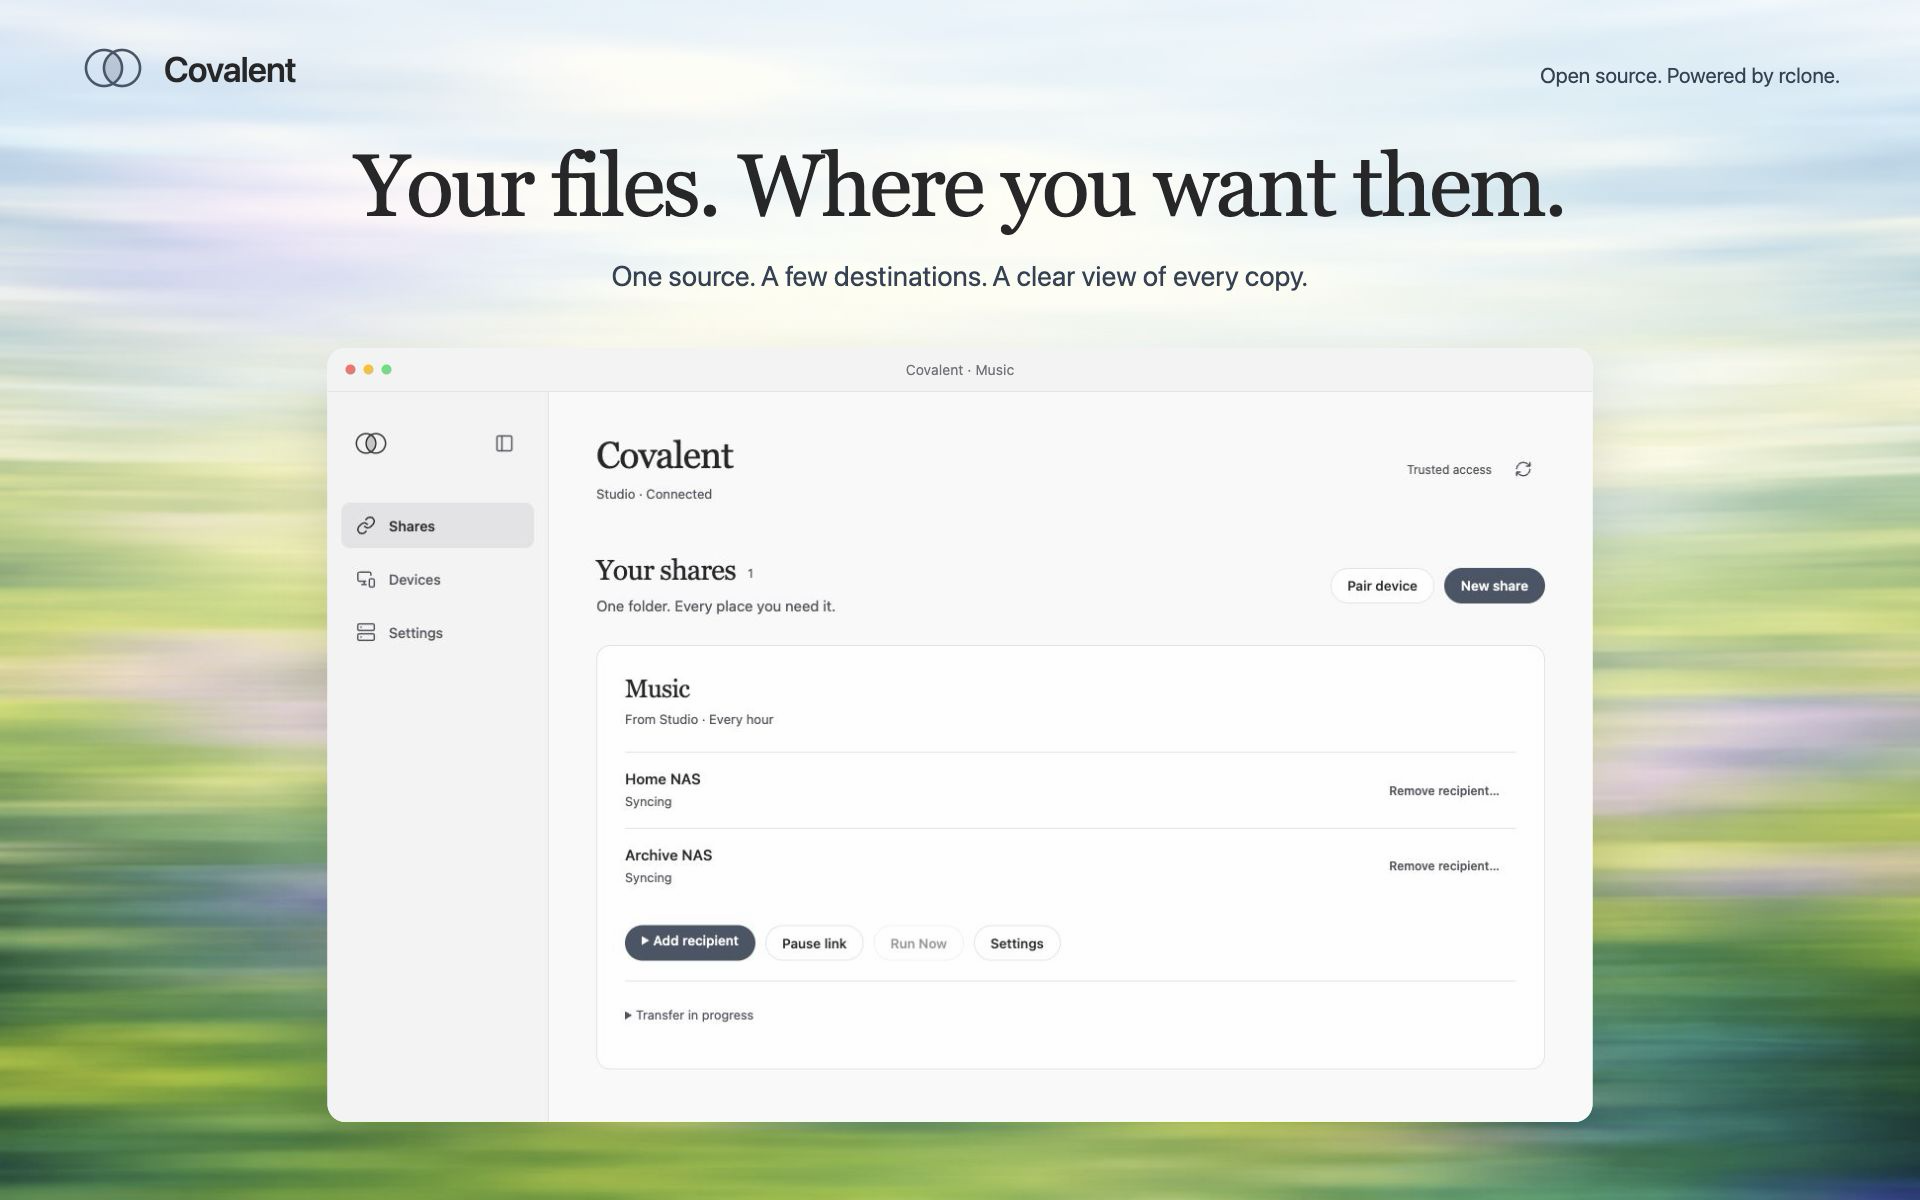
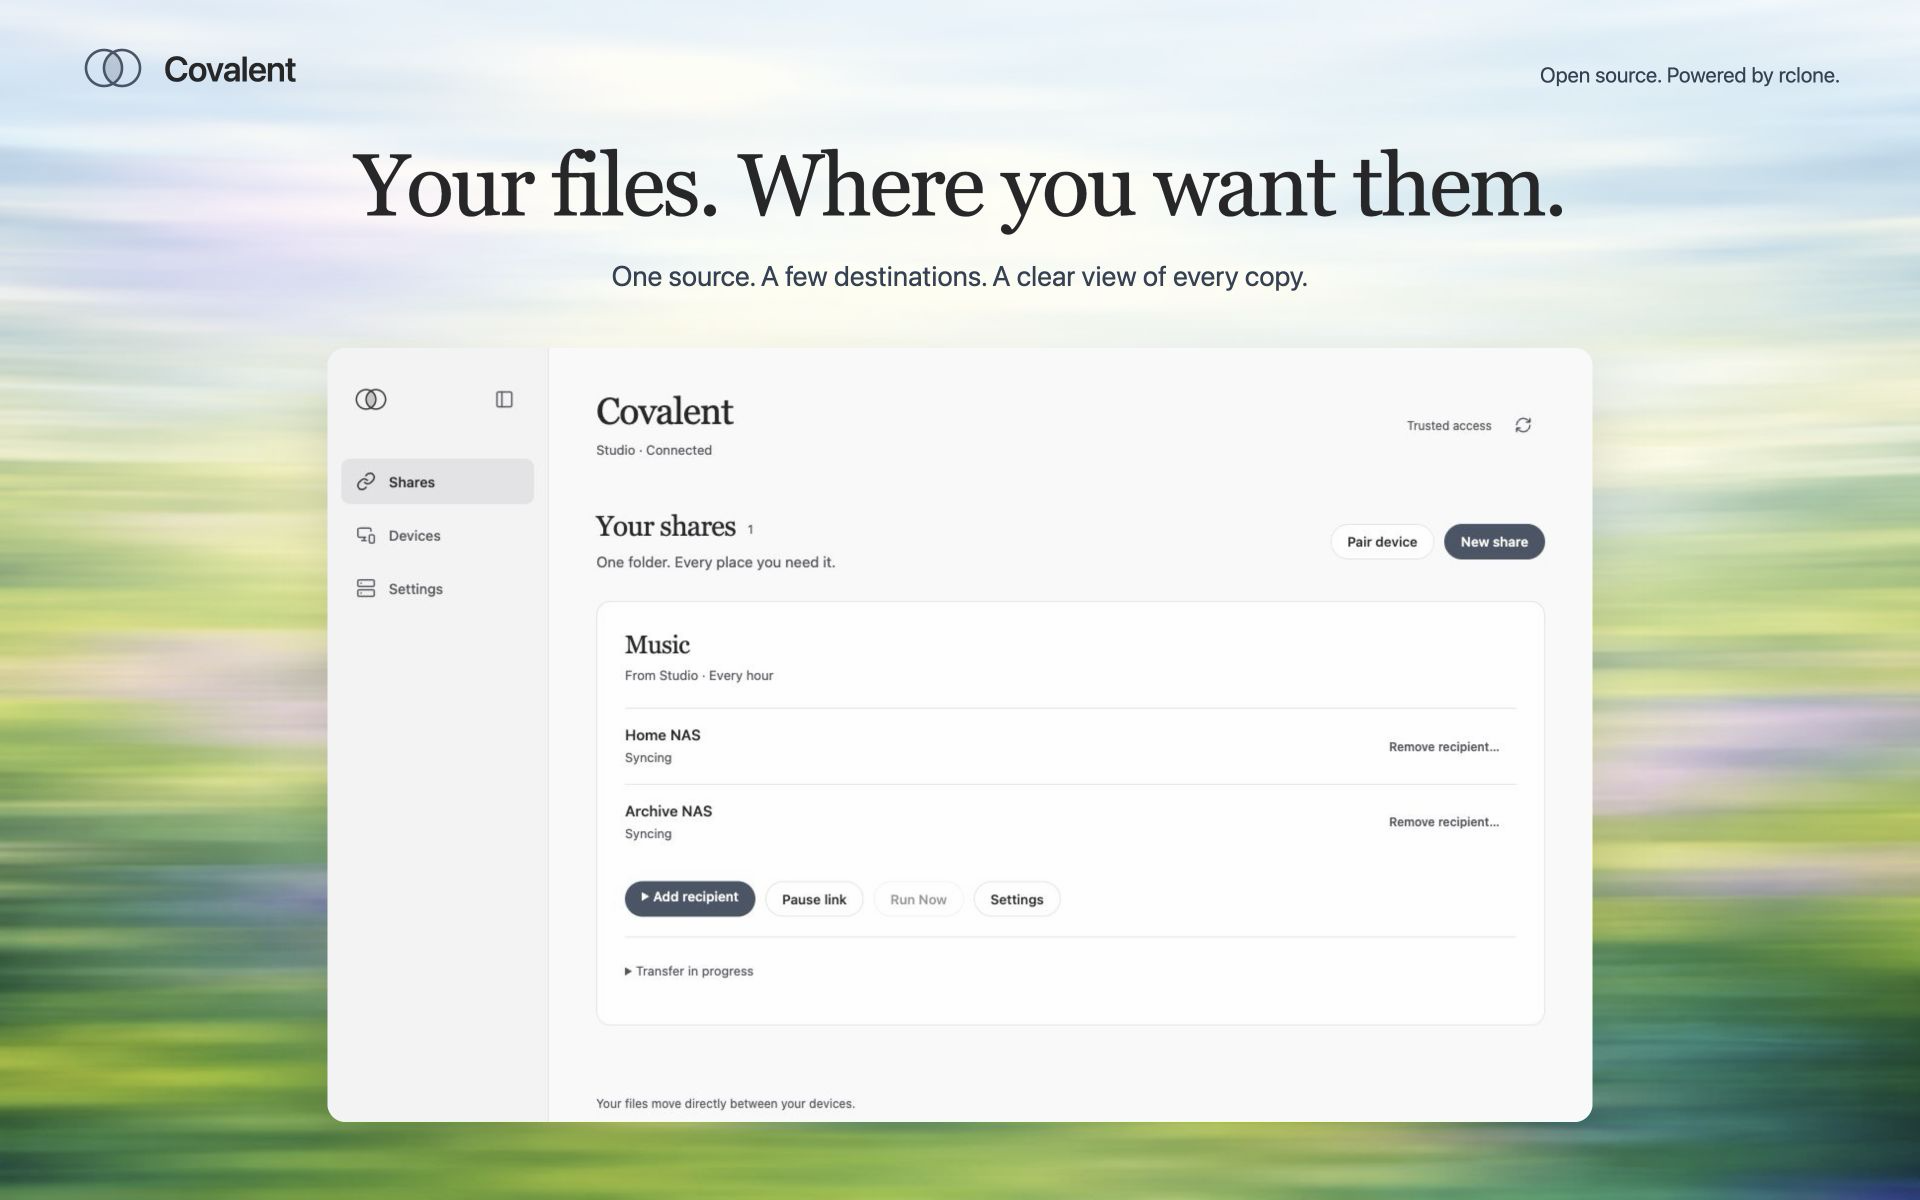
docs: publish the latest Covalent preview artwork and website pack

diff --git a/docs/website/mockups/index.html b/docs/website/mockups/index.html
@@ -18,7 +18,7 @@
     <div class="platform-note">Open source. Powered by rclone.</div>
     <h2>Your files. Where you want them.</h2>
     <p class="lead">One source. A few destinations. A clear view of every copy.</p>
-    <div class="browser hero-desktop"><div class="chrome"><span class="traffic"><i></i><i></i><i></i></span><span>Covalent · Music</span></div><img src="captures/overview-active.png" alt="Music sharing from Studio to Home NAS and Archive NAS, with both recipients syncing."></div>
+    <div class="browser hero-desktop"><img src="captures/overview-active.png" alt="Music sharing from Studio to Home NAS and Archive NAS, with both recipients syncing."></div>
   </section>
 </template>
 <template id="destinations">

diff --git a/README.md b/README.md
@@ -9,7 +9,7 @@
 
 **Share a folder. Choose where it goes.**
 
-Simple, self-hosted file sharing powered by rclone. One source, one or more
+Simple, self-hosted one-way file sharing powered by rclone. One source, one or more
 recipients, and the same settings on every device.
 
 [![Release](https://img.shields.io/github/v/release/thekozugroup/Covalent?color=475569)](https://github.com/thekozugroup/Covalent/releases/latest)
@@ -22,6 +22,8 @@ recipients, and the same settings on every device.
 </div>
 
 ---
+
+<img alt="Your files. Where you want them. Covalent's desktop web console showing a Music share with two recipients over a colorful motion-blurred background" src="docs/website/mockups/exports/01-desktop-and-phone.png" width="100%">
 
 ## Why
 
@@ -87,6 +89,11 @@ and deletion settings; its owner chooses where the files belong.
 *Current server interface with example devices and data. These are web-console
 captures; native apps have their own interfaces. The pictured console is newer
 than the v0.2.1 native packages.*
+
+The [product preview pack](docs/website/mockups/README.md) includes the latest
+desktop hero, a real native Android setup capture in a Pixel 6 frame, and previews
+of adding recipients, shared settings, and transfer status. PNG and WebP exports,
+editable layouts, alt text, and asset notices are included for website use.
 
 ## What it does
 
@@ -214,5 +221,5 @@ For vulnerabilities, follow [SECURITY.md](SECURITY.md) and report privately.
 [troubleshooting]: https://github.com/thekozugroup/Covalent/blob/9088b50416f686d533d75e27b8d89804dab51139/docs/troubleshooting.md
 [release-notes]: https://github.com/thekozugroup/Covalent/tree/9088b50416f686d533d75e27b8d89804dab51139/docs/release/notes
 [release-evidence]: https://github.com/thekozugroup/Covalent/blob/9088b50416f686d533d75e27b8d89804dab51139/docs/release/completion-progress.md
-[website-pack]: https://github.com/thekozugroup/Covalent/blob/9088b50416f686d533d75e27b8d89804dab51139/docs/website/HANDOFF.md
+[website-pack]: docs/website/HANDOFF.md
 [legacy-backups]: https://github.com/thekozugroup/Covalent/blob/9088b50416f686d533d75e27b8d89804dab51139/docs/getting-started.md

diff --git a/docs/website/mockups/README.md b/docs/website/mockups/README.md
@@ -20,7 +20,7 @@ The desktop interface pixels are captures of the actual Covalent web console. De
 
 The phone now shows the **native Android app**, captured on a temporary Pixel 6 emulator running Android 16. It uses the released v0.2.1 Android package, build `7157b555a2c9f684`, and shows its real Shared folders setup screen. The capture is the full, unaltered 1080 × 2400 screenshot, scaled proportionally into Google's Pixel 6 artwork at its documented screen offset. It is not a browser recreation or an AI-generated interface. The native capture demonstrates setup, not an active phone transfer.
 
-Google's frame is intended for websites and promotional material. These framed graphics are not store submission files; Google recommends unframed screenshots for Google Play listings. The desktop browser frame remains a presentation graphic. Keep the disclosure visible, or repeat it in an adjacent caption if you crop it out. See [asset provenance](assets/README.md) for sources and background-generation details.
+Google's frame is intended for websites and promotional material. These framed graphics are not store submission files; Google recommends unframed screenshots for Google Play listings. The desktop hero shows the console with rounded corners, without a Mac-style title bar or footer caption. Describe its example data in adjacent page copy. The portrait window frames remain presentation graphics. Keep their disclosures visible, or repeat them in an adjacent caption if you crop them out. See [asset provenance](assets/README.md) for sources and background-generation details.
 
 The standalone interface images from 2026-10-03 are in `../screenshots/`. The two new active-state captures in `captures/` were taken on 2026-10-04 from the unchanged web interface. The scene is reproducible with `python3 docs/website/preview.py --running` from a checkout; expand **Transfer in progress** for the detailed capture. The preview is read-only and uses no production services.
 
